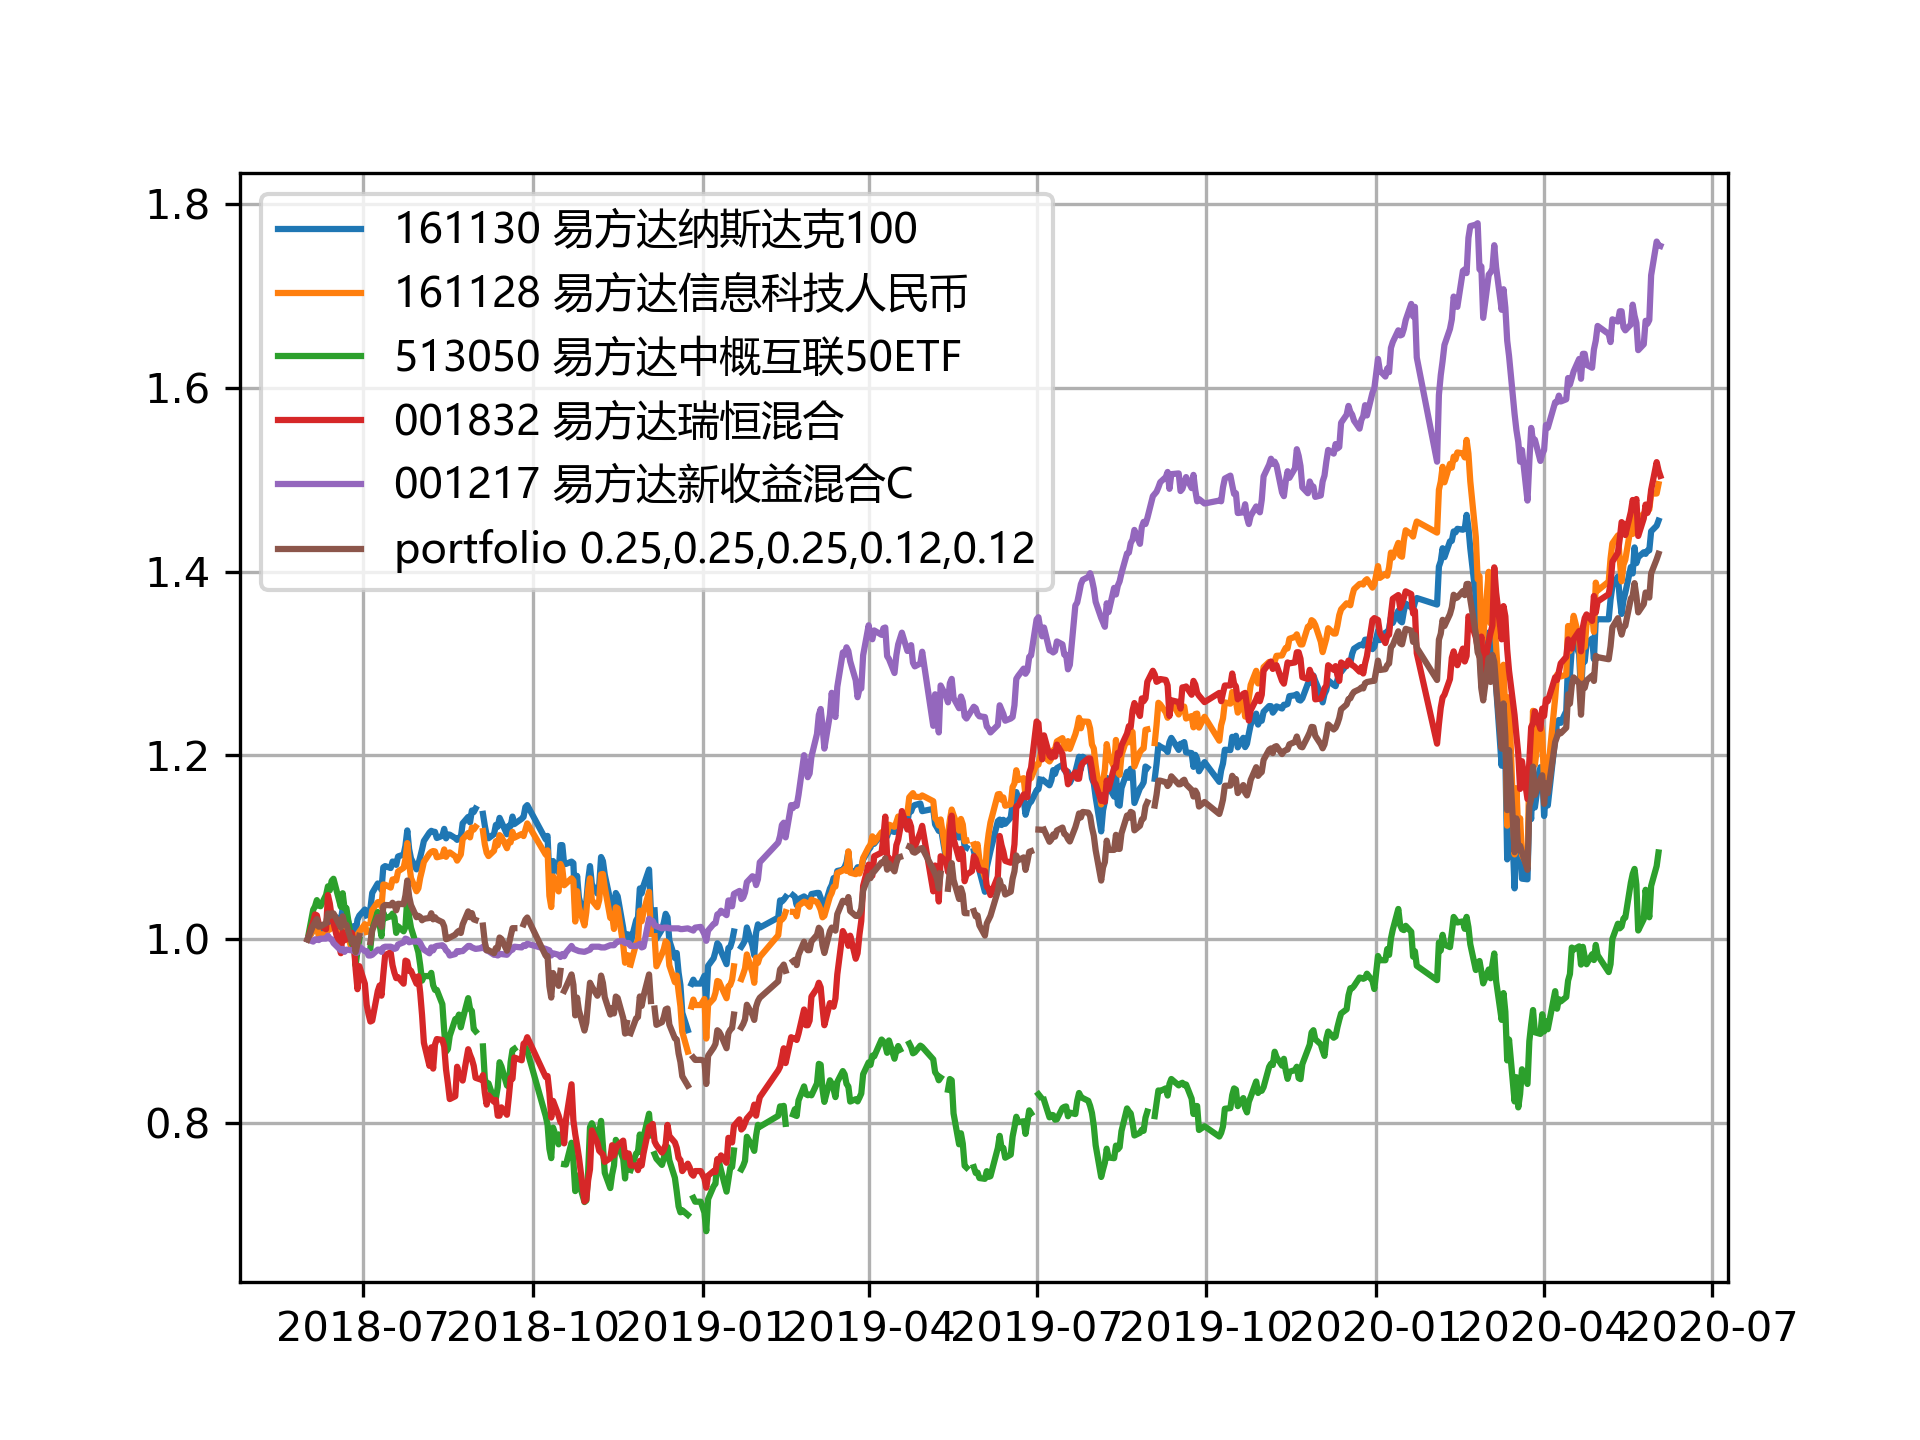
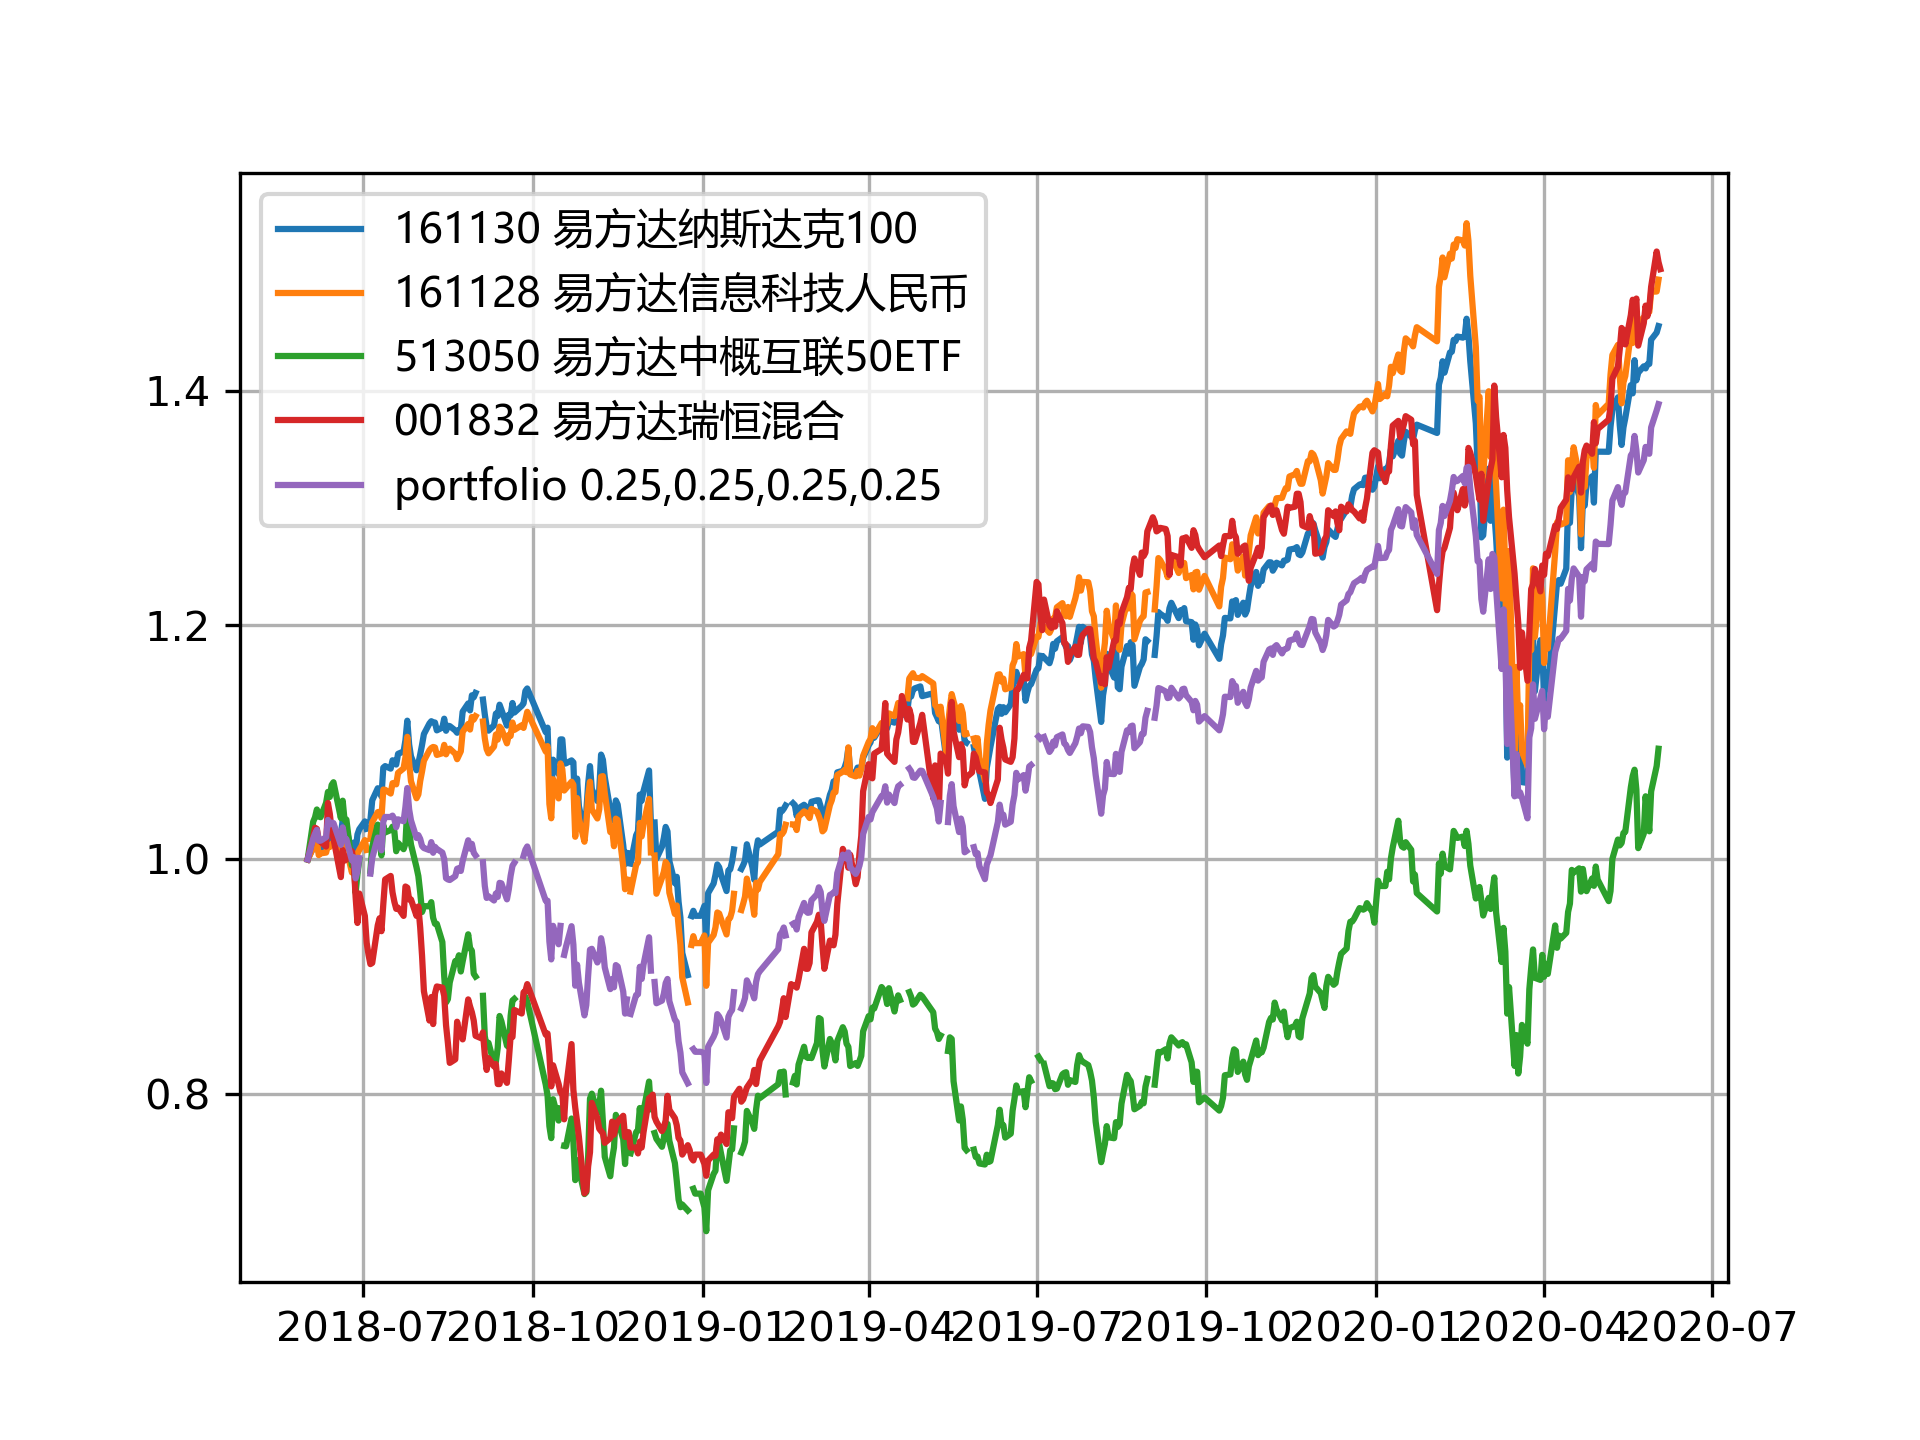
adjust portfolio

diff --git a/funddata.py b/funddata.py
@@ -21,10 +21,10 @@ if __name__ == "__main__":
     enddate = '2021-06-01'
 
     # portfolio
-    codelist = ['161130', '161128', '513050', '001832', '001217']#, '510310']
+    codelist = ['161130', '161128', '513050', '001832']#, '510310']
 
     # portfolio weights
-    weightlist = [0.25, 0.25, 0.25, 0.125, 0.125]
+    # weightlist = [0.25, 0.25, 0.25, 0.125, 0.125]
 
     # 0 for unit net value; 1 for accumulated net value
     value_field_index = 1

diff --git a/README.md b/README.md
@@ -5,7 +5,7 @@ The code was written in and tested with Python 3.7 (Anaconda 4.8).
 ## Usage
 #### Run the program with command line arguments of start date, end date and a list of fund codes
 #### Example:
-python funddata.py 2018-06-01 2021-06-01 161130 161128 513050 001832 001217
+python funddata.py 2018-06-01 2021-06-01 161130 161128 513050 001832
 
 ## A plot of accumulated net values (fld_netvalue) for the example
 ![Screenshot](fld_netvalue.png)
